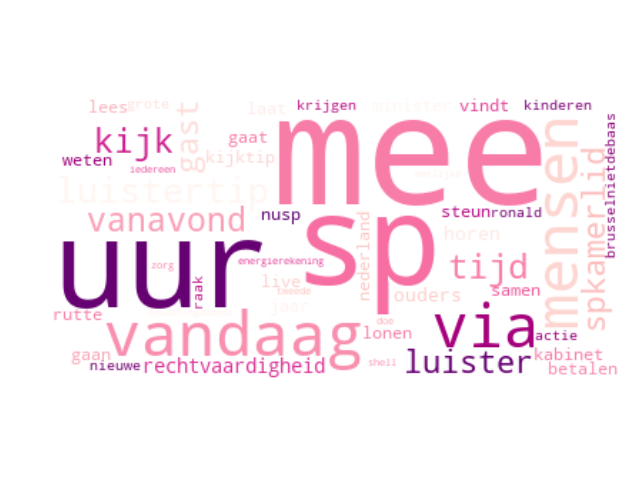
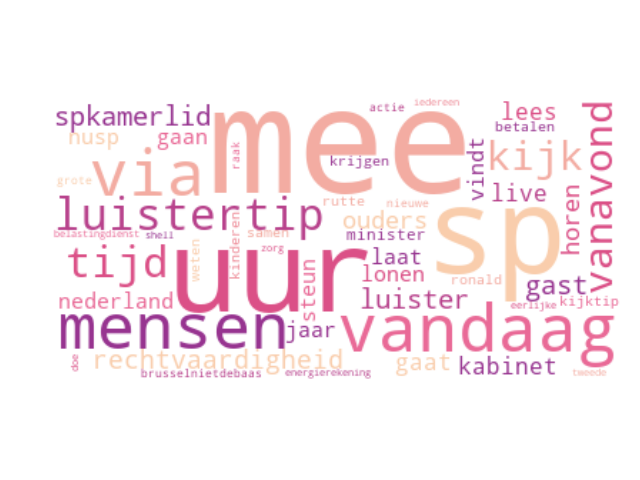
Added custom colormap

Changed region(s): [[0.0625, 0.1875, 0.9688, 0.8125]]

diff --git a/process_tweets.py b/process_tweets.py
@@ -4,6 +4,7 @@ import re
 import os
 import pandas as pd
 import matplotlib.pyplot as plt
+import matplotlib.colors as colors
 from pattern.text.nl import sentiment
 from collections import Counter
 import demoji
@@ -21,6 +22,7 @@ pd.set_option('max_colwidth', 200)
 pd.set_option('display.max_columns', 10)
 pd.set_option('display.max_rows', 10)
 pd.options.mode.chained_assignment = None  # Turn off warnings
+cmap = colors.ListedColormap(['#F9CDAC', '#F3ACA2', '#EE8B97', '#E96A97', '#DB5087','#B8428C', '#973490'])
 
 
 ### Functions
@@ -81,18 +83,6 @@ def compute_sentiment(tweets_df):
     return tweets_df
 
 
-# Plot the average sentiment for each party
-def plot_sentiment(tweets_df):
-    average_polarity = tweets_df.groupby('political_party')['polarity'].mean().sort_values(ascending=False)
-    average_polarity.plot.bar(color="pink")
-    plt.xlabel("Political Party")
-    plt.ylabel("Average Polarity")
-    plt.title("Sentiment of Dutch Political Parties on Twitter")
-    plt.tight_layout()
-    plt.savefig("plots/sentiment.png")
-    plt.close()
-
-
 # Compute topics that political parties tweet about
 def compute_topics(tweets_df):
     tweets_df = tweets_df[['political_party', 'clean_tweets']]
@@ -110,7 +100,7 @@ def compute_topics(tweets_df):
 
 # Generate a word cloud for a string of wowrds
 def generate_word_cloud(words, party):
-    word_cloud = WordCloud(background_color="white", colormap='RdPu').generate_from_frequencies(words)
+    word_cloud = WordCloud(background_color="white", colormap=cmap).generate_from_frequencies(words)
     plt.imshow(word_cloud, interpolation='bilinear')
     plt.axis("off")
     plt.tight_layout()
@@ -145,14 +135,14 @@ def compute_labels(tweets_df):
 def plot_sentiment_topic(tweets_df):
     sentiments = pd.DataFrame({'political_party': tweets_df['political_party'].unique()})
     sentiment_dict = tweets_df.groupby('political_party')['polarity'].mean().to_dict()
-    sentiments['sentiment'] = sentiments['political_party'].map(sentiment_dict)
+    sentiments['General'] = sentiments['political_party'].map(sentiment_dict)
     for filename in os.listdir('topics'):
         topic = filename.replace('.txt', '')
         topic_tweets = tweets_df[tweets_df[topic] == True]
         topic_dict = topic_tweets.groupby('political_party')['polarity'].mean().to_dict()
         sentiments[topic] = sentiments['political_party'].map(topic_dict)
-    sentiments = sentiments.sort_values(by=['sentiment'], ascending=False)
-    sentiments.plot.bar(x="political_party", colormap='PuRd')
+    sentiments = sentiments.sort_values(by=['General'], ascending=False)
+    sentiments.plot.bar(x="political_party", cmap=cmap)
     plt.xlabel("Political Party")
     plt.ylabel("Average Polarity")
     plt.title("Sentiment of Dutch Political Parties on Twitter")
@@ -167,11 +157,10 @@ def main():
     tweets = clean_data(tweets)
     show_data_summary(tweets)
     tweets = compute_sentiment(tweets)
-    # topics = compute_topics(tweets)
-    # plot_sentiment(tweets)
-    # topics_to_word_cloud(topics)
     tweets = compute_labels(tweets)
     plot_sentiment_topic(tweets)
+    topics = compute_topics(tweets)
+    topics_to_word_cloud(topics)
 
 
 # Run main
